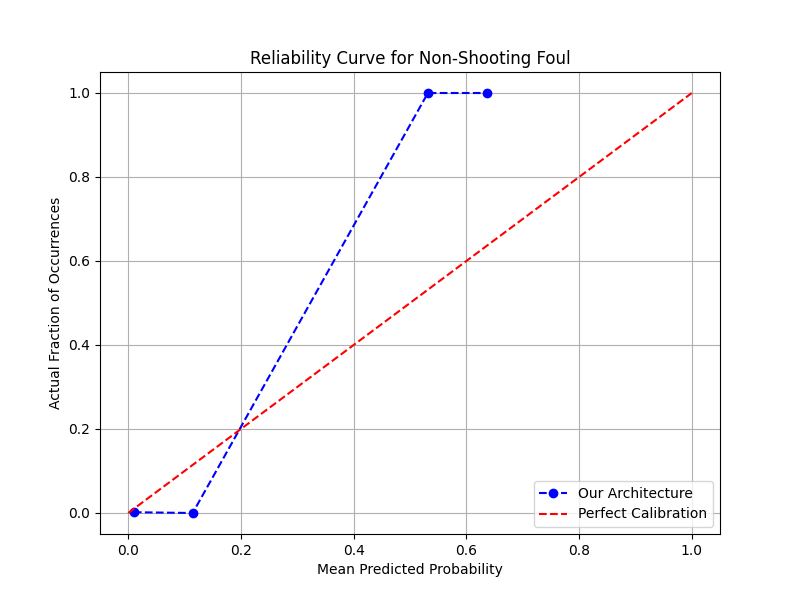
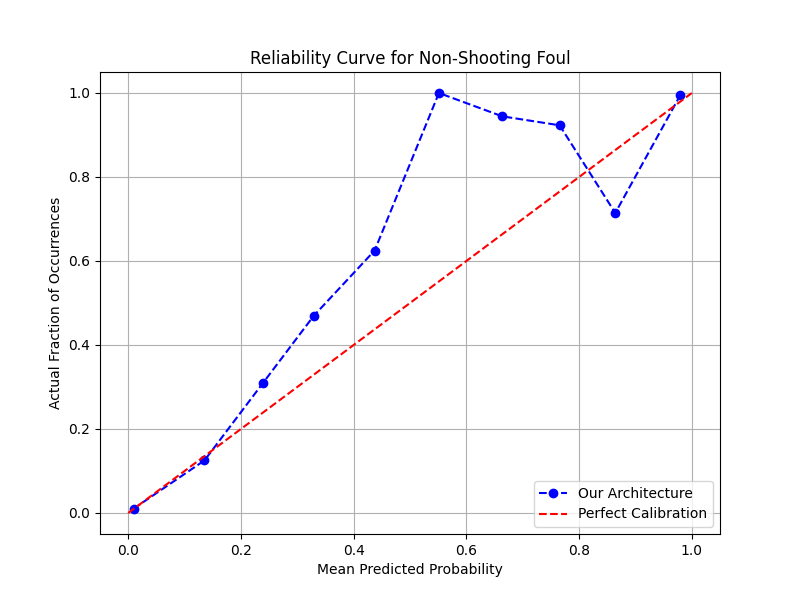
Graphs_Stacked_LSTM_v5_DeepHoops

diff --git a/testing_script.py b/testing_script.py
@@ -16,7 +16,7 @@ import json
 
 
 if sys.gettrace() is not None:  # Check if debugger is active
-    args = argparse.Namespace(path=r"0021500504.json" , event = 6, model = "1D_Conv_LSTM_v8")  # Provide default values for debugging
+    args = argparse.Namespace(path=r"0021500504.json" , event = 5, model = "Stacked_LSTM_v5_DeepHoops")  # Provide default values for debugging
 else:
     parser = argparse.ArgumentParser(description='Process arguments about an NBA game.')
     parser.add_argument('--path', type=str,

diff --git a/plottingGraphs.py b/plottingGraphs.py
@@ -198,7 +198,7 @@ def plot_reliability_curve(model, X_test, y_test, class_index, modelName, n_bins
 
 
 startFile = 1
-endFile = 3
+endFile = 618
 file_count = 0
 expected_shape = (128, 24)
 expected_y_shape = (5,)
